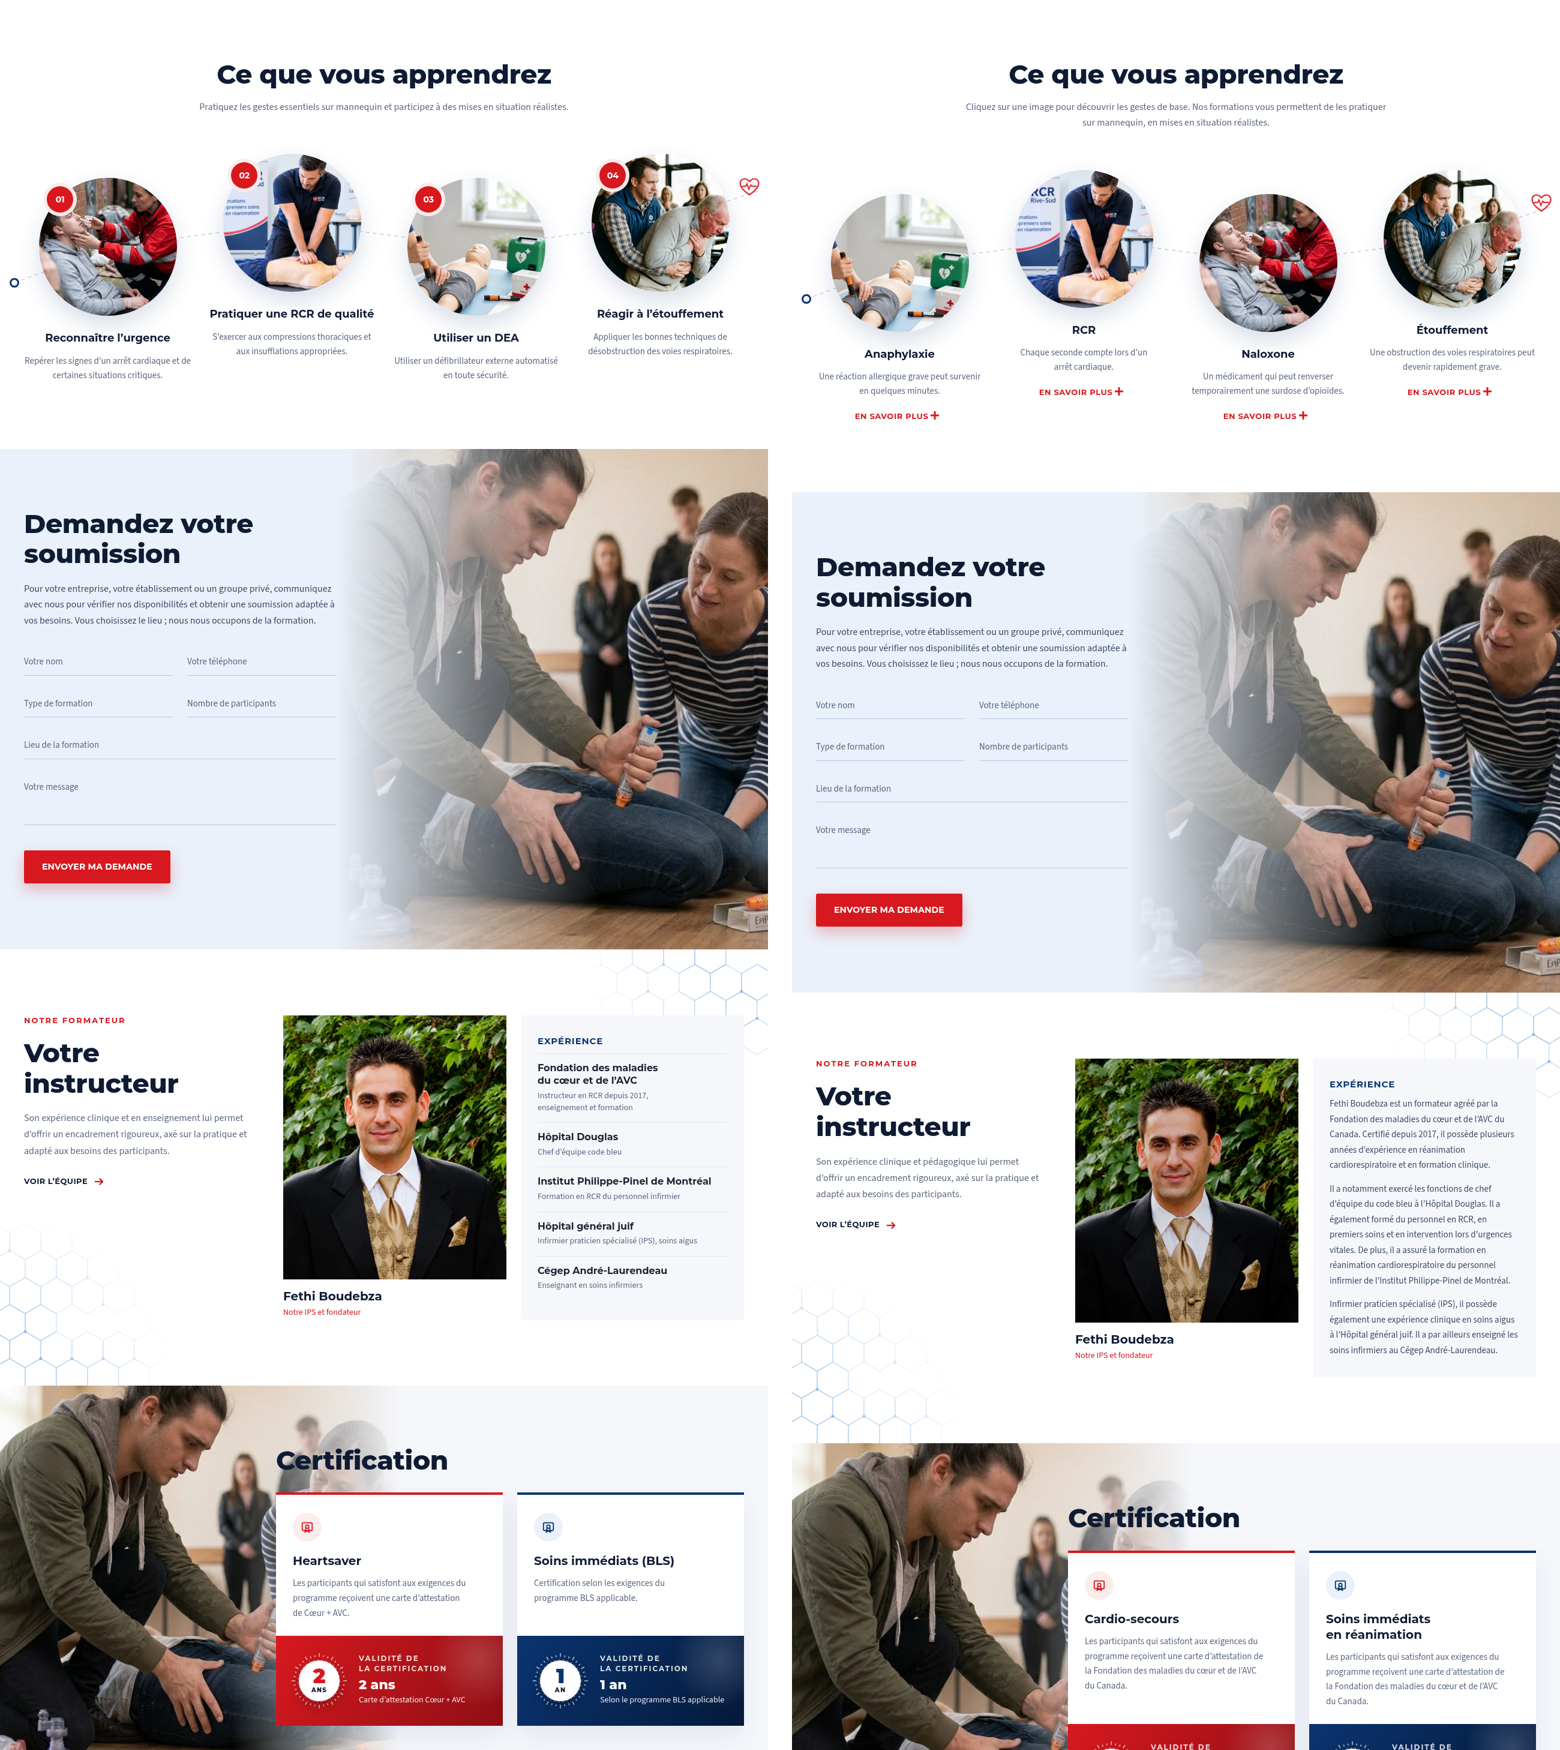
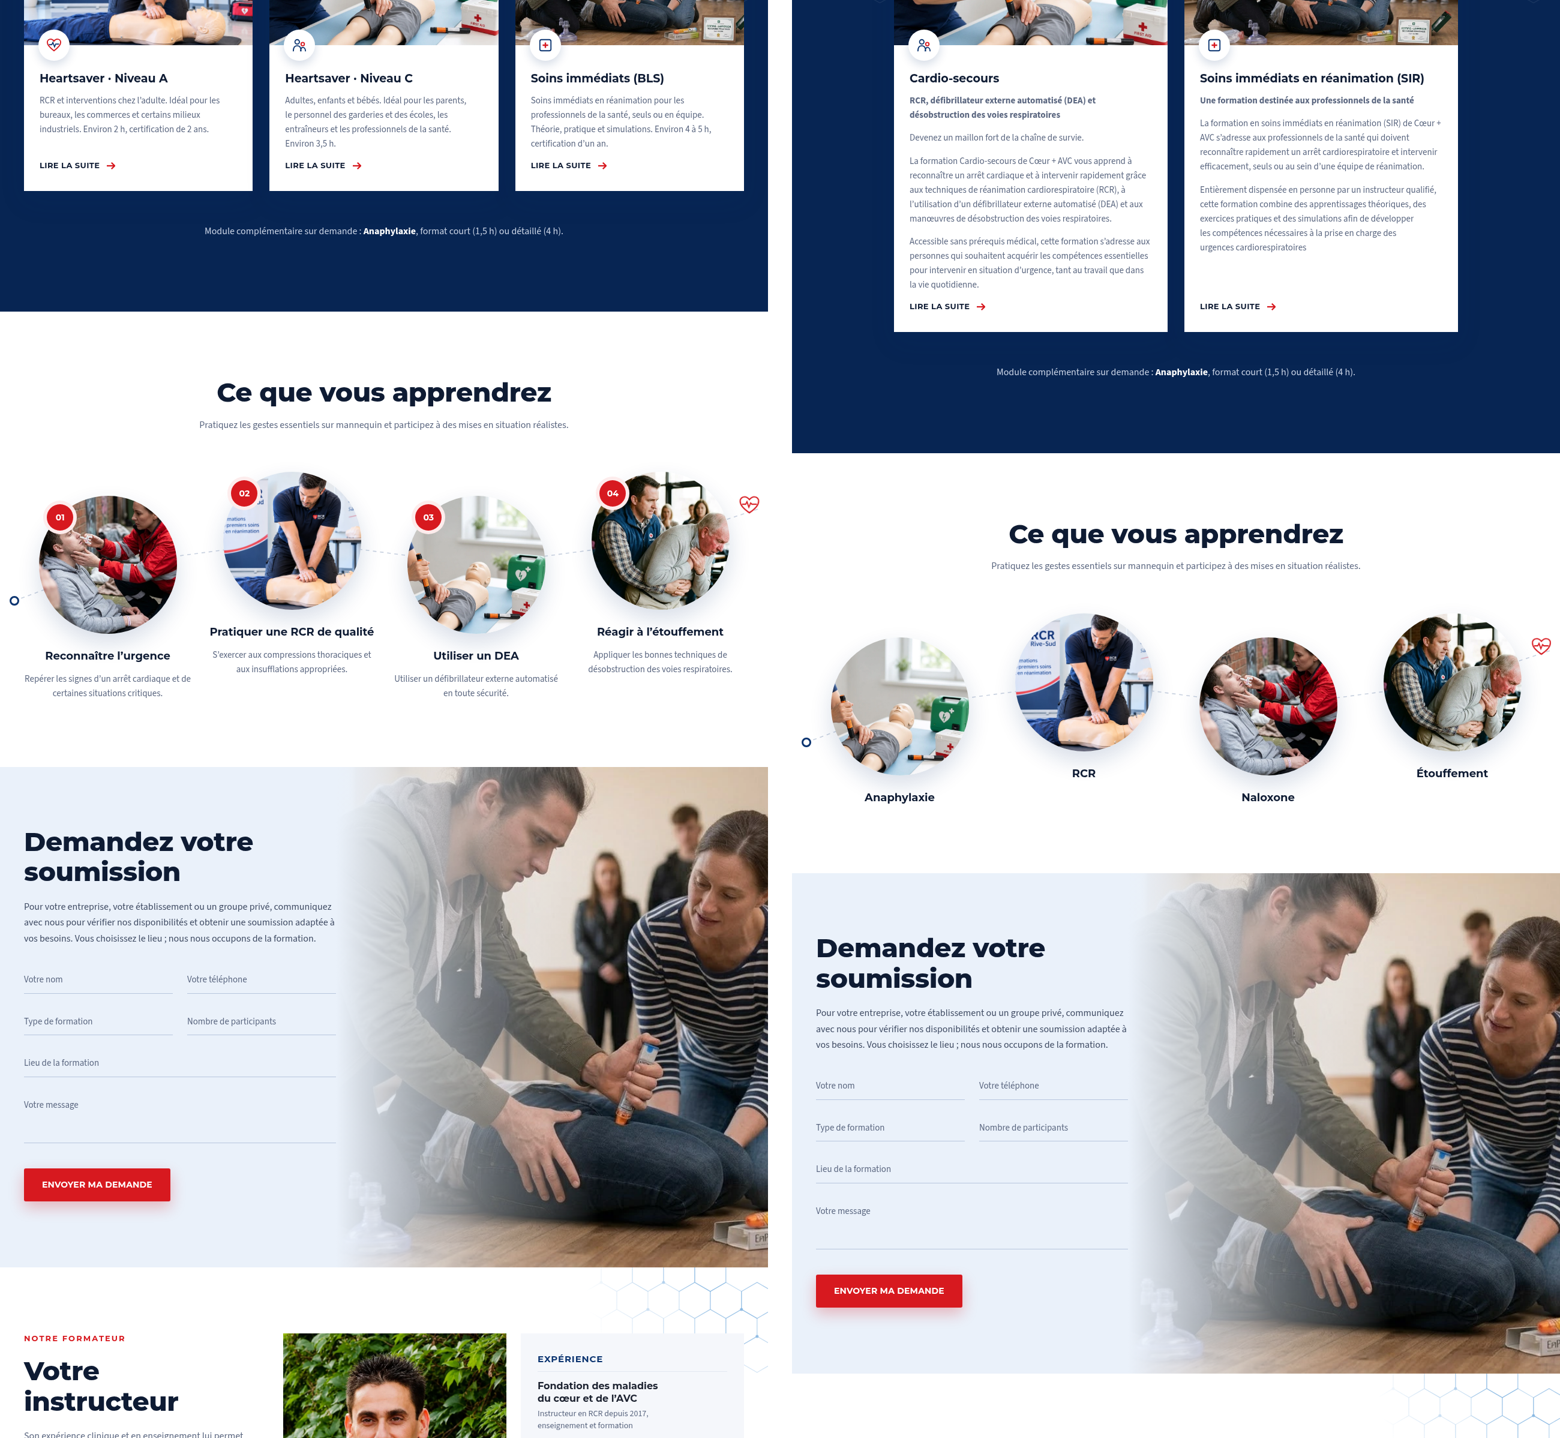
Nov 7 update: keep only client-requested changes; final before/after screenshots
Claude-Session: https://claude.ai/code/session_014s7AHDewbCsaYy53xfkXnf

diff --git a/build/i18n/README.md b/build/i18n/README.md
@@ -31,3 +31,9 @@ The French home page is a separate WordPress page built from a copy of the Engli
 To bring English back: publish 15/16/17, give English its own address (e.g. keep 15 at `/en/` or
 make it the front page again), set 297/298 back to "specific page: 203" and 16/17 to exclude 203,
 then point the EN button to the English page.
+
+## 7 Nov 2026 client update (applied 9 Nov)
+`build/elementor/fr_update_nov7.py` generated the first version of this update. On request, every element that
+was not explicitly asked for by the client was then removed directly on the live site (FAQ section, extra text,
+course-page hero photos/buttons/CTA bands, label/icon additions, footer phone sizes, extra anchors). The live
+site is the source of truth; the script output in `out/` reflects the first version, not the final one.
